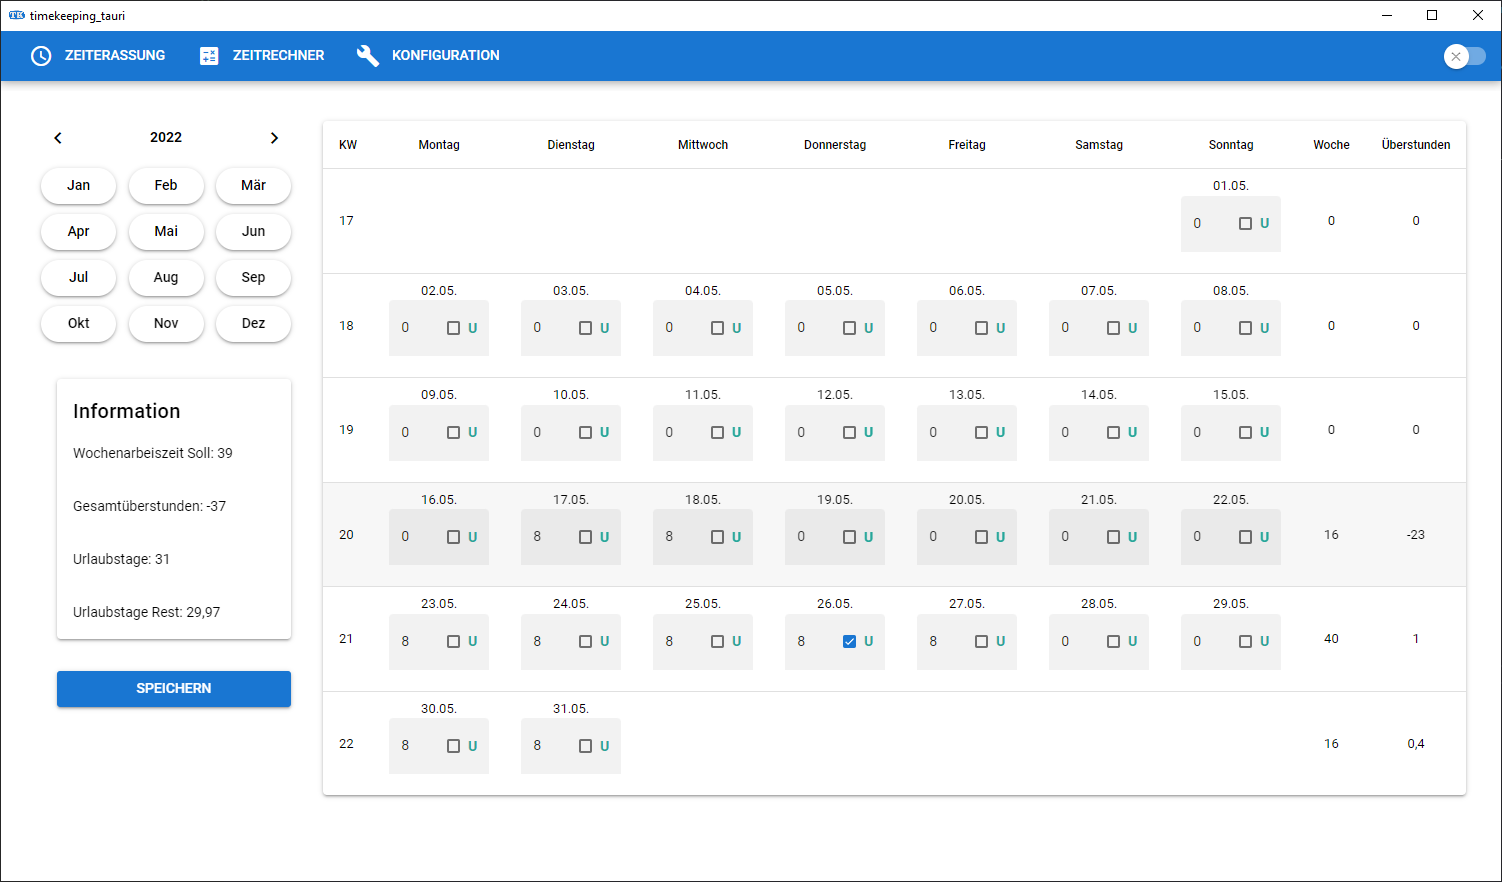
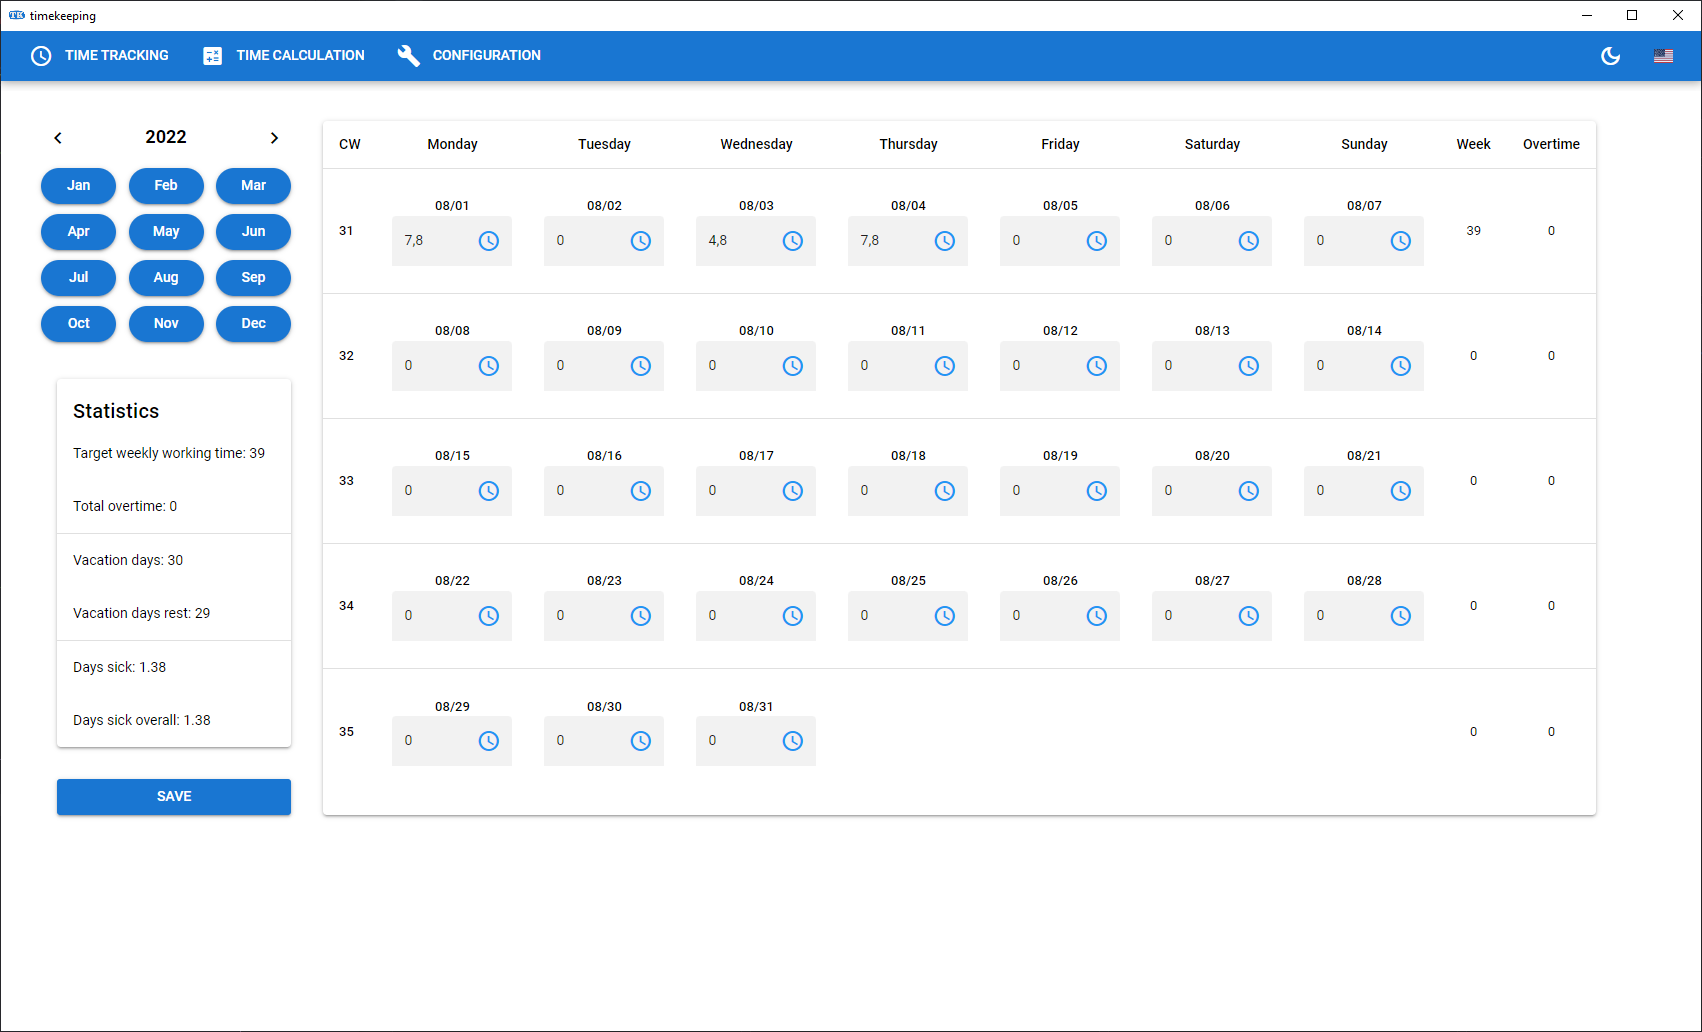
Updated documentation

diff --git a/README.md b/README.md
@@ -1,35 +1,176 @@
-# timekeeping_tauri
+# timekeeping
 
 ![](./doc/screen.png)
 
-This app is just a simple time keeper for work times build as an quasar tauri app. (I needed this for my current work place). It displays the current visible month with all days and allows to input the hour you worked on that day. It's also possible to sign a workday as a holiday (with the little Checkbox on the right side). The app calculates automatically, based on the configuration, your overtime and the rest of your vacation days.
+This app is just a simple time keeper for work times build as an quasar tauri app. (I needed this for my current work place). The app displays the current visible month with all days and allows to input the hour you worked on that day.
 
-To configure the app, the "Konfiguration" page is used. There you can input your weekly working hours, your yearly count of vacation days and if you want to change the default auto save time, the seconds when the app should auto save.
+## Functionality
 
-The auto save option can be enabled on the top right site.
+The following sections explain, how to use and how to configure the timekeeping application.
 
-If you need to calculate your working time you can use the "Zeitrechner" page. There you can input your start time, your break and your end time. The calculator will show you how many hours you worked.
+### General
 
-All data is saved in different json files, located under (for windows) `C:\Users\User\AppData\Roaming\timekeeping_tauri\data`.
+The application has three menu items, to navigate between them. The first item is the "Time Tracking" page. On this page you can keep track of your work time (see [Time Tracking](#time-tracking).) The "Time Calculator" page supports you to calculate a specific work time (see [Time Calculator](#time-calculator)). On the "Configuration" page you can configure the application to your needs (see [Configuration](#configuration)).
+
+### Configuration
+
+![](./doc/configuration.PNG)
+
+The "Configuration" page provides the following possibilties to change the behavior of the application:
+
+* General -> General configuration properties like `weekly working days`, etc.
+
+* Holiday -> Enable or disable displaying holidays
+
+* Sickness -> Enable or disable sickness option
+
+* Application -> Enable or disable auto save
+
+Besides the configurations on the main page, there are also a theme and language switcher on the right side of the toolbar.
+
+To save the changed configuration, you can press the `Save` button on the left hand side. (more informations under (Application)[#application])
+
+#### General
+
+The general section has three fields, to change the behavior of the time tracking.
+
+* Weekly working days
+  The weekly working days field defines, how much days in the week you need to work. This properties affects every calculation of the application, like overtime and etc.
+  The default is set to `5`. (No weekend working for sure ;))
+
+* Weekly working time (hours)
+  Defines how much hours you need to work in the week. Affects also every calculations like overtime and so on. The default value is set to `39`
+
+* Vacation days
+  Define how much days you have free time per year. The default value is `30`.
+
+#### Holiday
+
+The holiday section can be used to display holidays on the "Time Tracking" page. It displays all types of holidays depedent on the chosen country and state. The holidays are separated between holidays that are handled as work time off and holidays that are only "good to know". For the work time off holidays, the fields will be disabled, because you don't need to work!
+
+* Country
+  Speficies for which country you want have the holidays around. Currently there is only Germany and US available. The default is `Deutschland`=Germany
+
+* State
+  Defines the state you want to have the holidays for. In some countries the holidays are different in the states. The field is also dependent on the country and will behave like that. The default is `Hessen`
+
+If you don't want to have holidays around, you can turn it off with the toggle button on the right top side of the holiday section.
+
+#### Sickness
+
+The sickness section can be used to keep track of your working time off because of beeing sick. 
+
+* Sickness hours
+  The toggle button can be used to either interpretate the missing hours, because of sickness, as working time (true) or not (false). The default is `true`.
+
+If you don't want to have the sickness mode around, you can turn it off with the toggle button on the right top side of the sickness section.
+
+#### Application
+
+The application section can be used to enable the auto save function.
+
+* Auto. Save(Seconds)
+  The count of seconds, on which the applications should save the configuration and the data. The default is `15` seconds.
+
+If you don't want to have the auto save functionality you can turn it off with the toggle button on the top right side of the section.
+
+The theme and the locale switcher are also considered application related configurations. But those two options are always around on the right side of the toolbar.
+
+* Theme switcher (Moon Icon)
+  You can switch between the light and dark theme. The default is `light`.
+
+* Locale switcher (Flag)
+  You can switch between german and us language. The default is `german`. 
+
+All data is saved in different json files, located under (for windows) `C:\Users\User\AppData\Roaming\timekeeping\data`.
 The `configuration.json` contains all the changed configuration data. The `data.json` contains all the input of the timekeeper.
 
-Currently the app only uses the German locale. I will (maybe) add other locales later with a configuration option.
+If you want to backup your data, just simply copy the folder and save it somewhere else.
 
-The app is based on the awesome quasar framework (which is using vue).
+### Time Tracking
 
-## dev
+The main page of the application is located under the "Time Tracking" tab. (See screenshot below)
+
+![](./doc/screen.png)
+
+* Month Picker
+  On the top left side you have the the month picker around. On the top of the month picker you can navigate between the years. The view will be updated. Below the year picker you have the months of the year around. When you click on a month, the Month Table on the center of the page will be updated and will be display the according days of the month.
+
+* Statistics
+  The statistics section will display some interesting informations about your time tracking.
+  
+  - Target weekly working time
+    Just displays the configured value of `weekly working time` from the configuration general section.
+  
+  - Total overtime
+    Displays automatically the calculated total overtime you worked.
+  
+  - Vacation days
+    Just displays the configured value of `vacation days` from the configuration general section.
+  
+  - Vacation days rest
+    Displays automatically the rest days, after you have booked holiday on a day field.
+  
+  - Days sick
+    Displays the days you were sick in the current month. Will only be displayed if you have the configuration for sickness set to `true`.
+  
+  - Days sick overall
+    Displays the days you were overall sick. Will only be displayed if you have the configuration for sickness set to `true`.
+
+* Month Table
+  
+  The month table is the central UI component of the "Time Tracking" page. It displays the current calendar weeks and it's days. In the last two columns there is the total worktime and also the overtime automatically calculated.
+
+* Day Field
+  
+  A day field is one field in the month table. It has three status.
+  
+  * Clock symbol
+    
+    If the clock symbol is selected, the input time is interpreted as work time.
+  
+  * Vacation symbol
+    
+    If the vacation symbol is selected, the input time is interpreted as vacation time.
+  
+  * Sick symbol
+    
+    If the configuration of sickness is allowed, then the sick symbol can be used to specify the hours of beeing sick for the specific day.
+
+* Save
+  
+  The save button can be found on the bottom of the left side. It allows the user to save the current data.
+
+### Time Calculator
+
+![](./doc/time_calculator.PNG)
+
+If you need to calculate your working time you can use the "Time Calculator" page. There you can input your start time, your break and your end time. The calculator will show you how many hours you worked.
+
+Currently this only uses the 24h time format.
+
+## Dev
+
+To start the application in browser run (will not 100% work, because no access to the native file system)
 
 ```bash
-   yarn dev
+   pnpm web
 ```
 
-## build
+To start the application in tauri
+
+```bash
+   pnpm dev
+```
+
+## Build
 
 If you want to use the executable, then execute the following.
 
 ```bash
-   yarn build
-   yarn build:tauri
+   pnpm build && pnpm build:tauri
 ```
 
-After build you can either use the msi installer under `.\timekeeping_tauri\src-tauri\target\release\bundle\timekeeping_tauri_0.1.0_x64_en-US.msi` or you can use the standalone executable under `.\timekeeping_tauri\src-tauri\target\release\timekeeping_tauri.exe`.
+After build you can either use the msi installer under `.\timekeeping\src-tauri\target\release\bundle\timekeeping_tauri_0.1.0_x64_en-US.msi` or you can use the standalone executable under `.\timekeeping\src-tauri\target\release\timekeeping_tauri.exe`.
+
+### Github Actions
